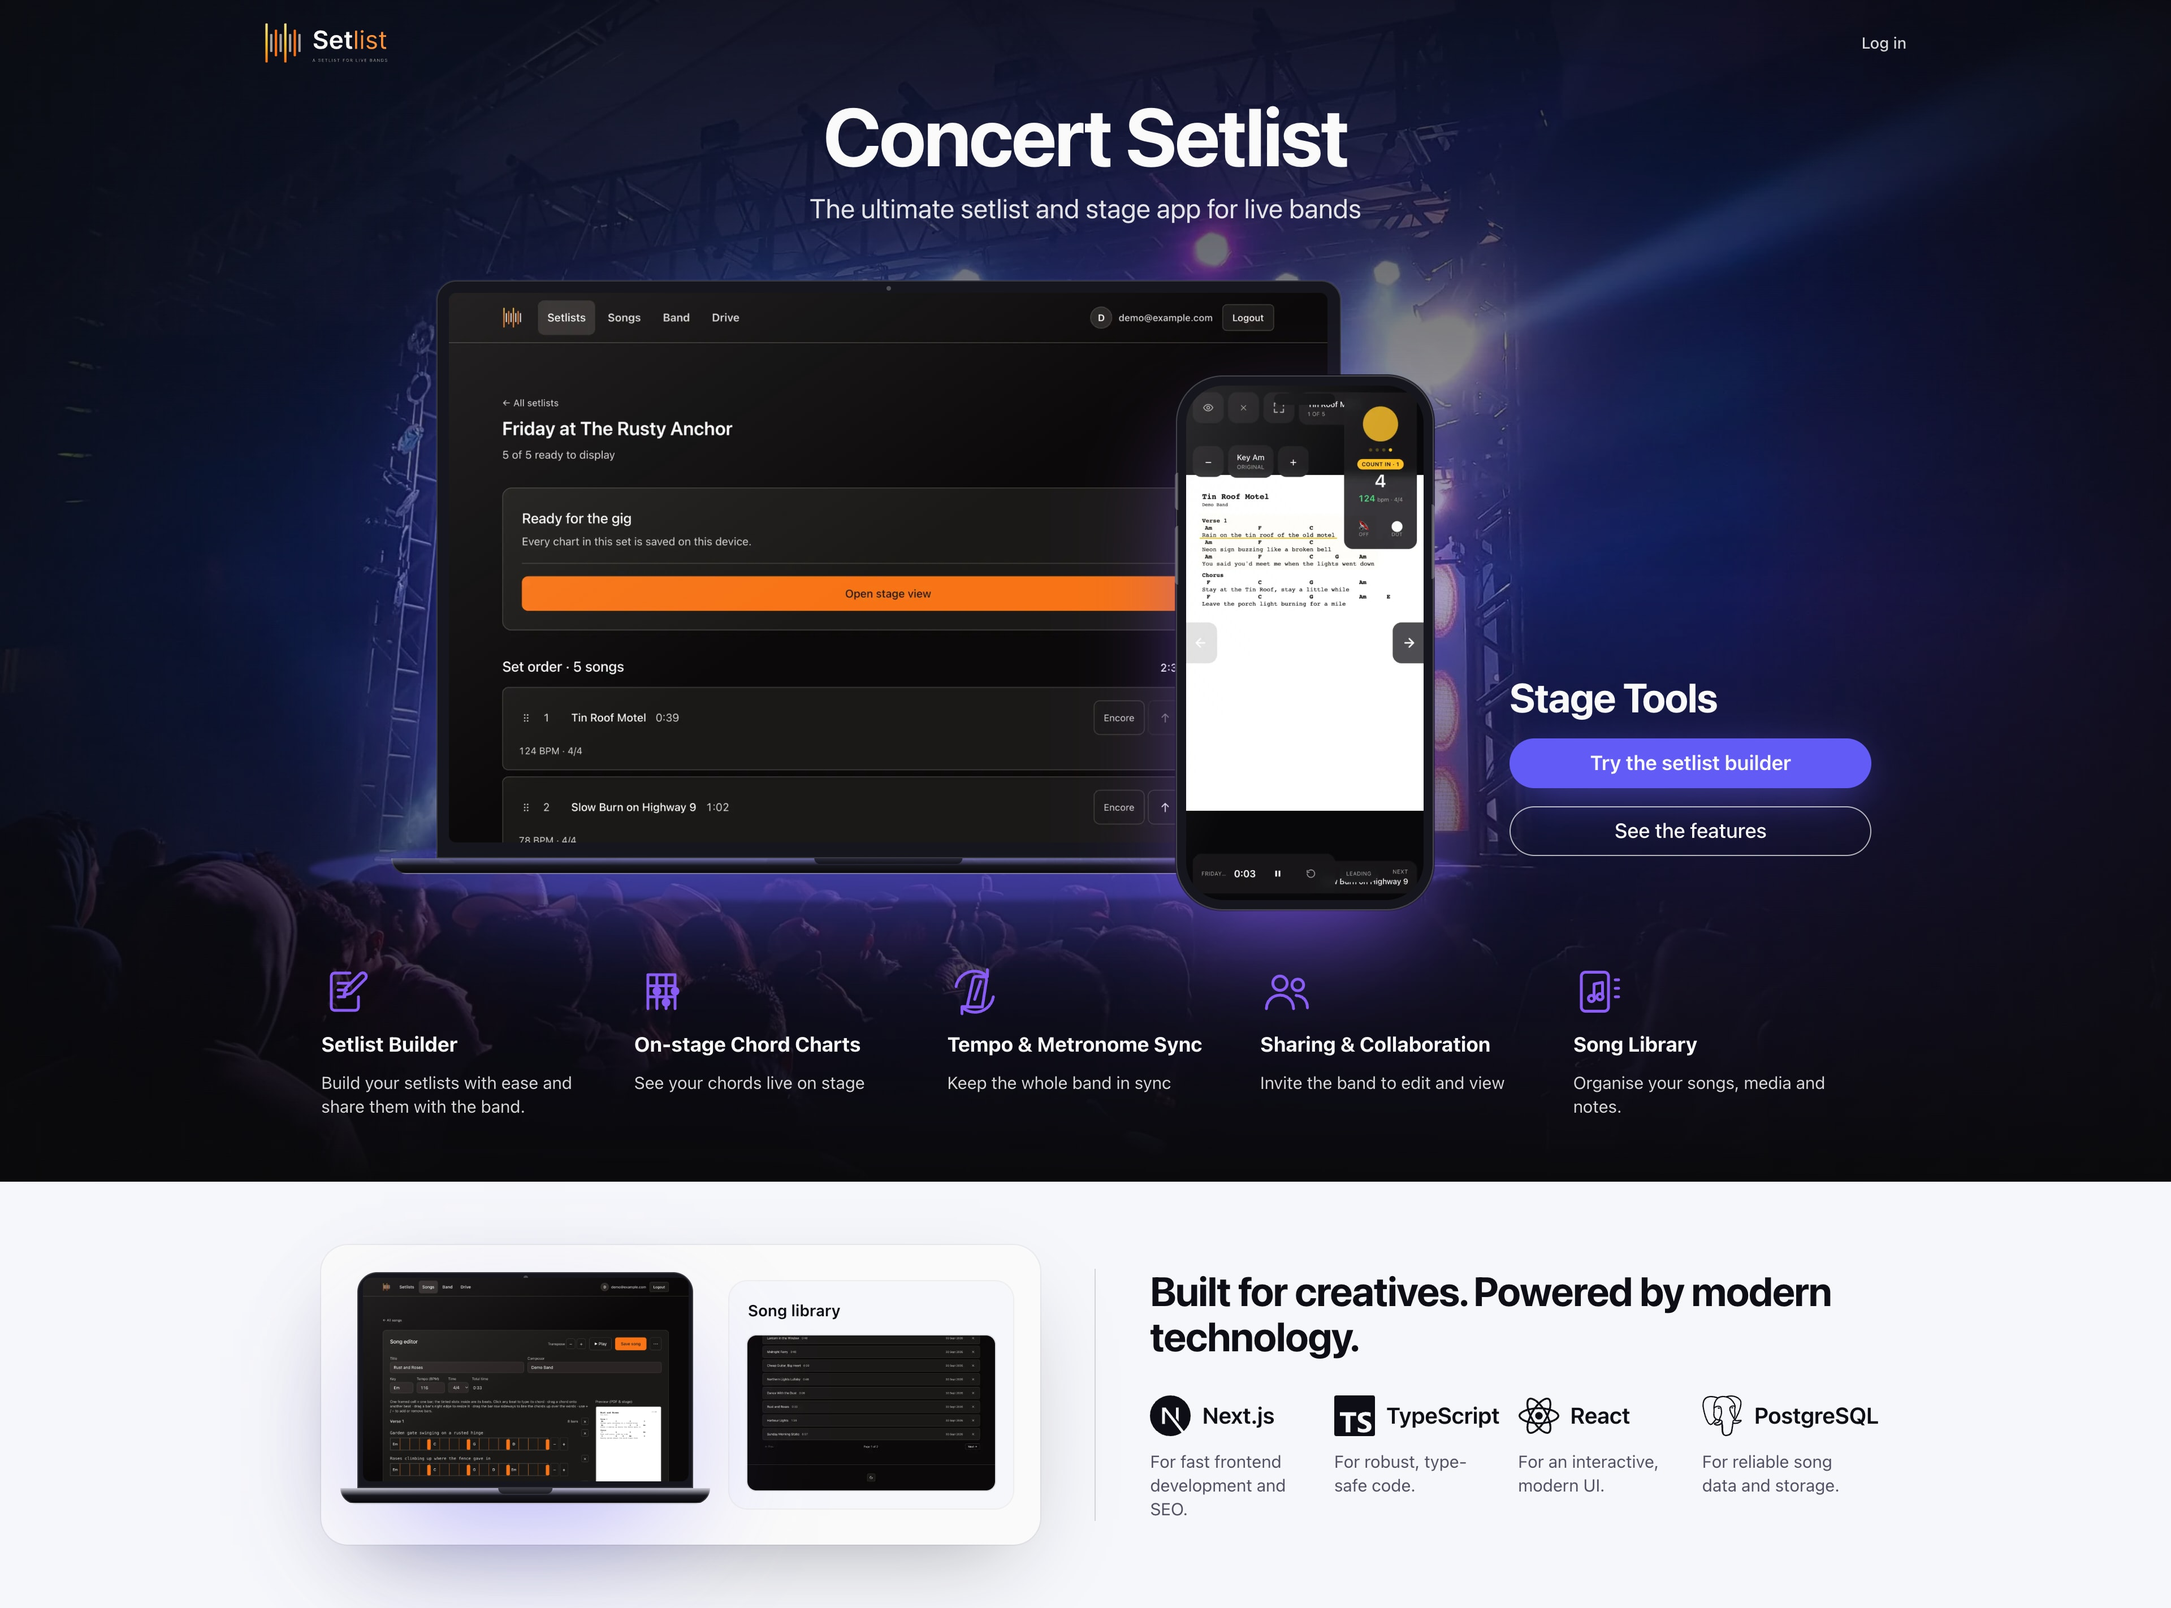
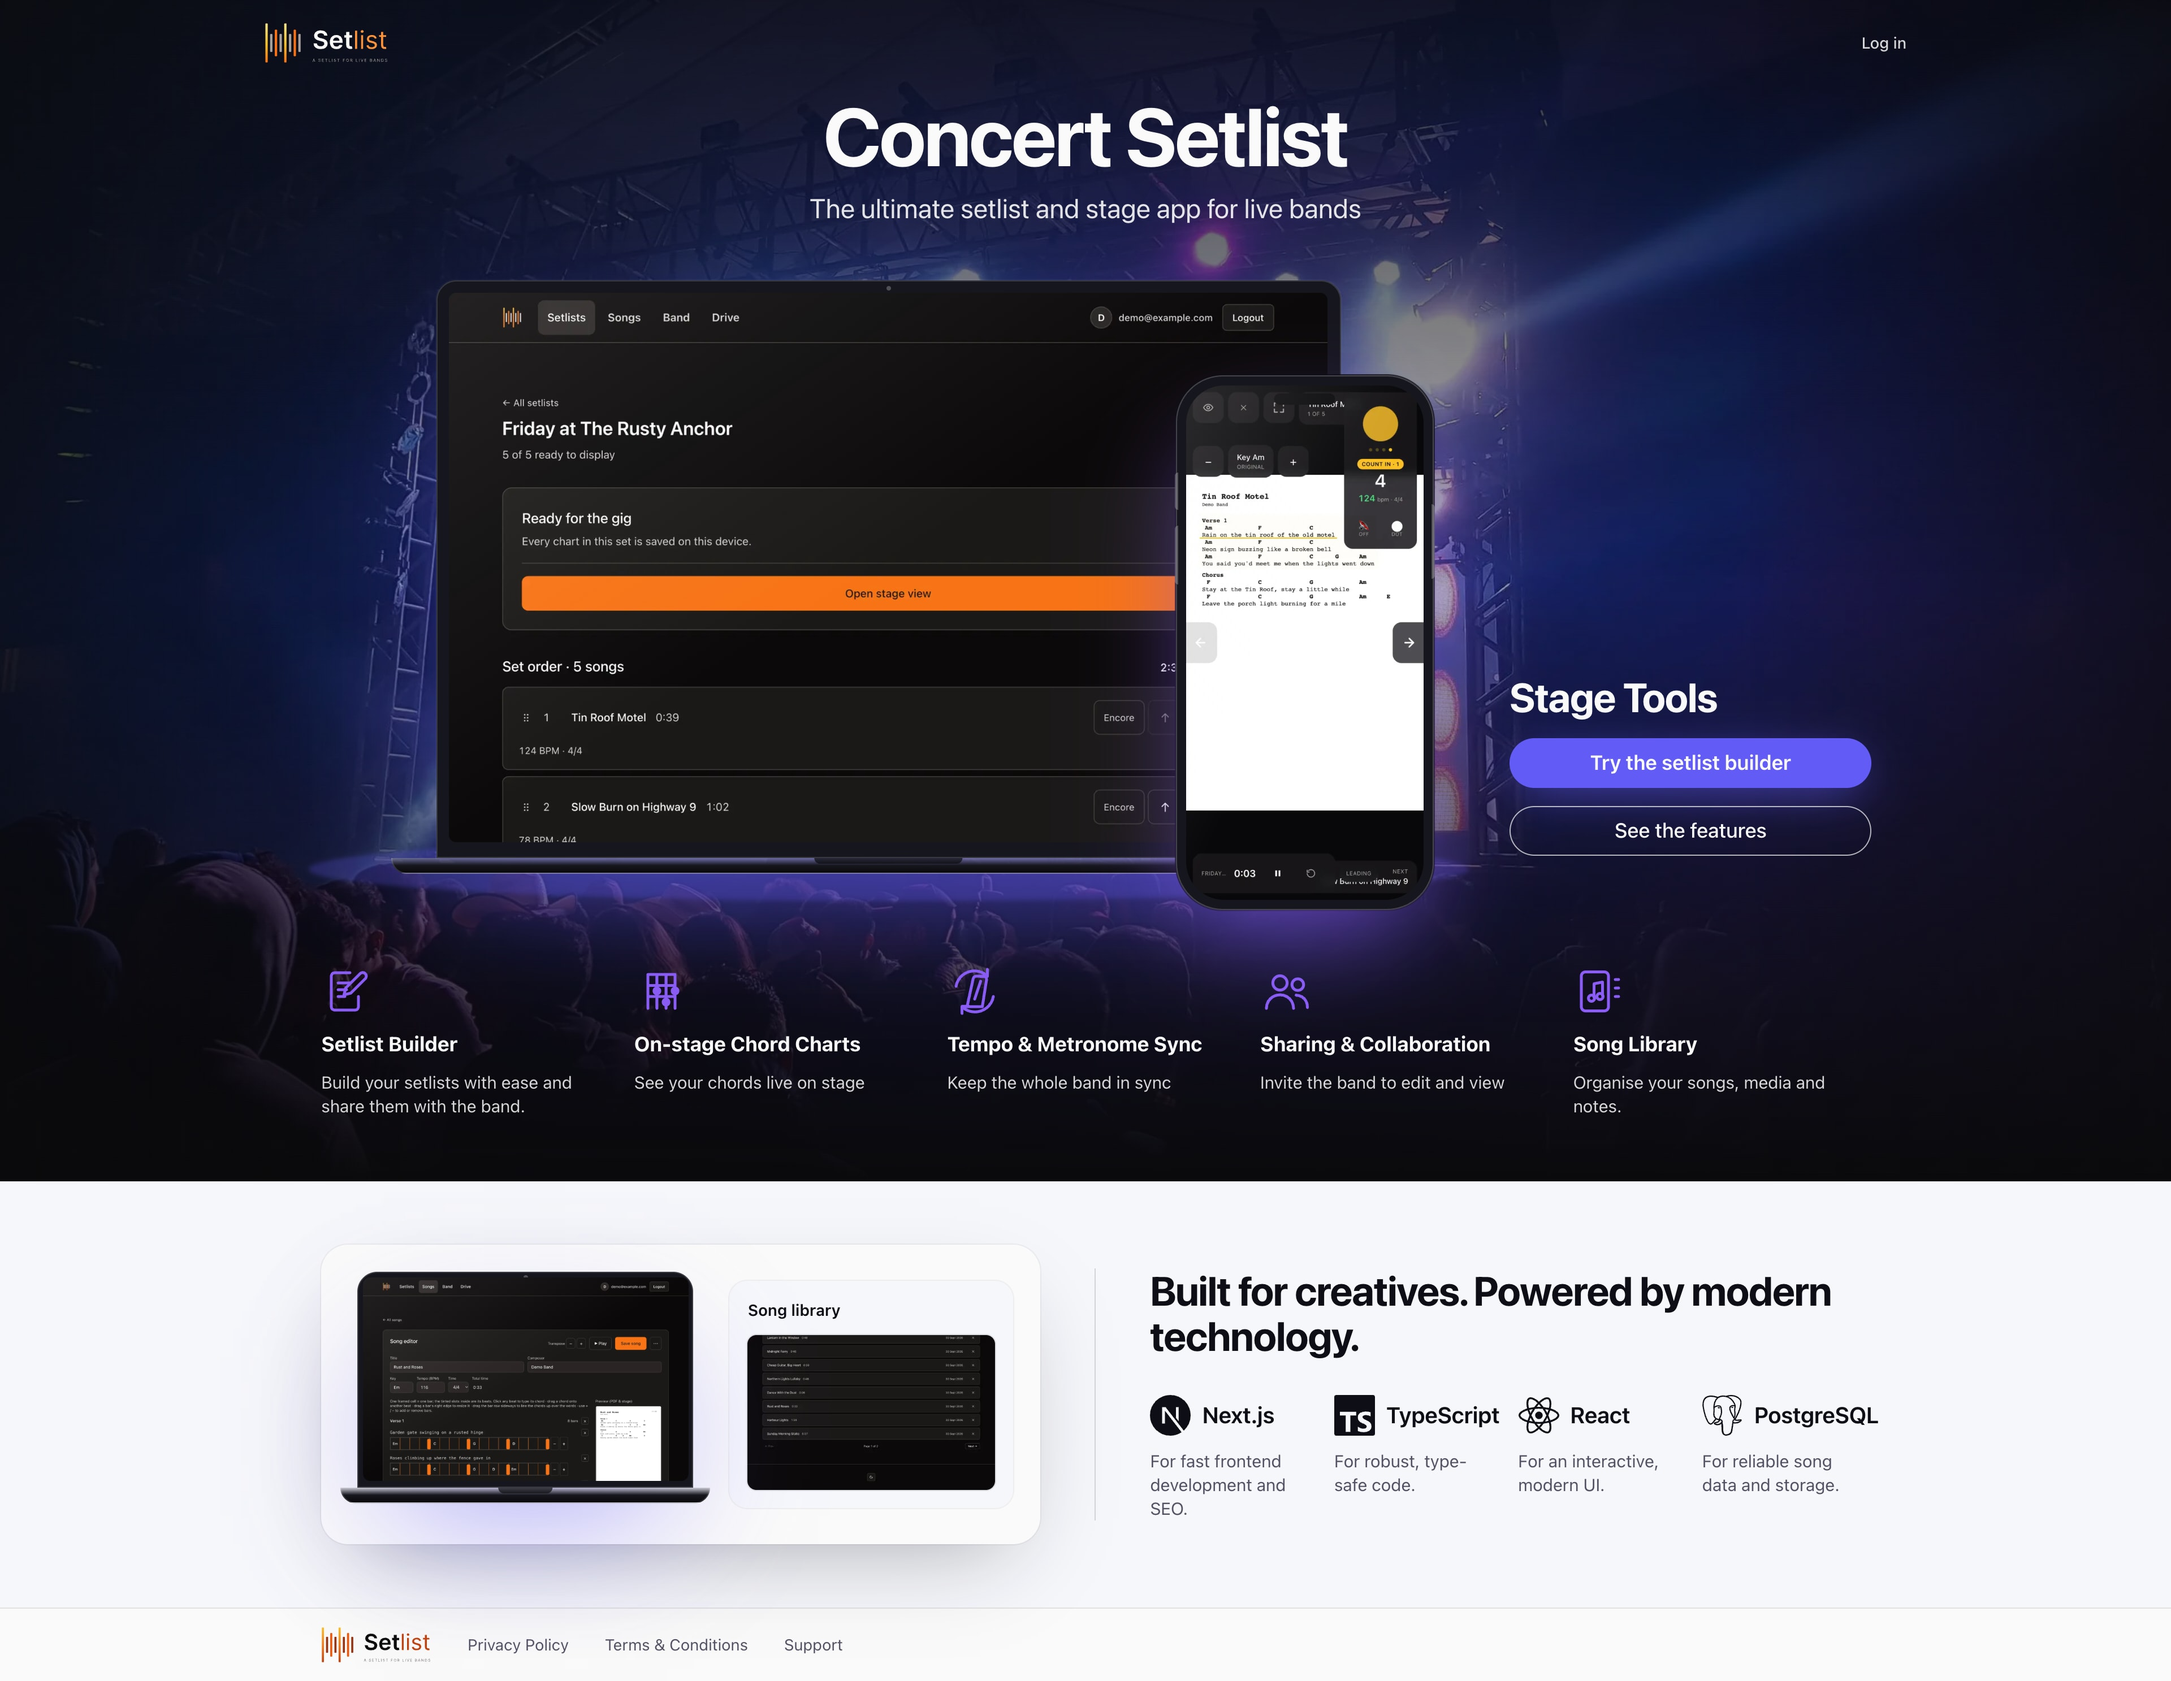
Sync from private repo

Changed region(s): [[0.0, 0.0619, 1.0, 0.9902], [0.1562, 0.0, 0.1875, 0.0309]]

diff --git a/README.md b/README.md
@@ -15,6 +15,15 @@ Built for **Murphys Outlaws**, and shaped by that: every decision assumes a dark
 
 **Live:** https://concert-setlist.insforge.site
 
+## Footer, terms and support
+
+Every page outside the stage view ends in the same footer — the logo (home), **Privacy Policy**, **Terms & Conditions**, **Support** and **Cookie settings** — and the landing page has its own light version of it.
+
+- **Cookie settings** reopens the usage-analytics choice, so a member can change their mind: it says whether analytics is currently on or off and offers *Yes* or *No thanks*. It is hidden when analytics isn't configured, since there is nothing to choose.
+- **Terms & Conditions** (`/terms`) is plain-language starter text for a small band tool: what Setlist is, accounts and bands, that the songs stay yours, fair use and limits of responsibility. Have it reviewed before relying on it as a legal document.
+- **Support** (`/support`) is a contact form that works signed out: name, email (prefilled when signed in), subject and message. It emails the owner through Resend with *Reply-To* set to the visitor, so a plain reply reaches them. It is guarded by a hidden honeypot field (a bot gets a fake success and nothing is sent) and a per-address limit of 5 messages an hour. If email isn't configured, the visitor is told it didn't go through and the cause is logged, not shown.
+- The messages go to `SUPPORT_EMAIL`, or the first `ADMIN_EMAILS` entry when that isn't set.
+
 ## Landing page
 
 Signed-out visitors land on a public landing page (`src/components/landing/`), in English: the headline *Concert Setlist*, a laptop (the setlist) and a phone (the stage view at 124 BPM with a count-in and the marked lyric line) showing **real dark-mode screenshots** of the app over a concert photo, a *Stage Tools* block with **Try the setlist builder** and **See the features**, five features with a line each — *Setlist Builder*, *On-stage Chord Charts*, *Tempo & Metronome Sync*, *Sharing & Collaboration*, *Song Library* (offline is deliberately not advertised: the stage page itself is not cached, only the charts) — and a light band underneath: a second look at the app (song editor and song library) beside *Built for creatives. Powered by modern technology.* with Next.js, TypeScript, React and PostgreSQL and why each. It uses its own **landing** colour tokens (`--landing-*`: an always-dark hero with an indigo accent over a light band) and is responsive down to a phone. The backdrop photo is `public/landing/stage.jpg` — swap the file to change the mood (credit in `public/landing/CREDITS.md`). Signed-in members skip it and go straight to their setlists. The image at the top of this README is a 4K render of this page. Backdrop photo: *Photo of Band Performing to Crowd of People at a Concert* by [Andre Moura](https://www.pexels.com/@oandremoura/), via Pexels (free licence).
@@ -137,7 +146,7 @@ RESEND_API_KEY=
 RESEND_FROM_EMAIL=
 ```
 
-`NEXT_PUBLIC_POSTHOG_PROJECT_TOKEN` switches usage analytics on (and is needed at build time). `POSTHOG_PERSONAL_API_KEY`, `POSTHOG_PROJECT_ID` and `POSTHOG_API_HOST` are server-only and feed the admin page; `ADMIN_EMAILS` says who may open it. All optional — see `.env.example`.
+`NEXT_PUBLIC_POSTHOG_PROJECT_TOKEN` switches usage analytics on (and is needed at build time). `POSTHOG_PERSONAL_API_KEY`, `POSTHOG_PROJECT_ID` and `POSTHOG_API_HOST` are server-only and feed the admin page; `ADMIN_EMAILS` says who may open it, and `SUPPORT_EMAIL` (default: the first admin) receives support messages. All optional — see `.env.example`.
 
 `OPENROUTER_API_KEY` (server-only) powers the vision transcription of scans and images. It must also be set in the deployment env (`deployments env set`).
 
